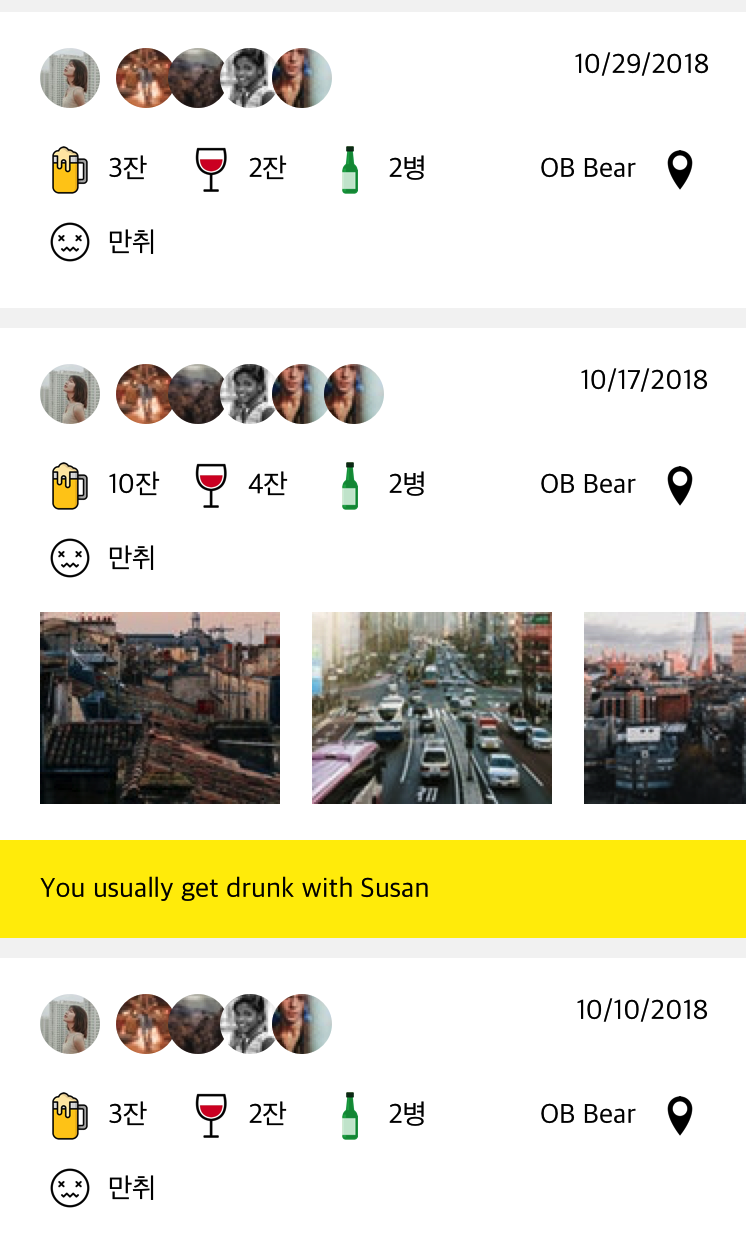
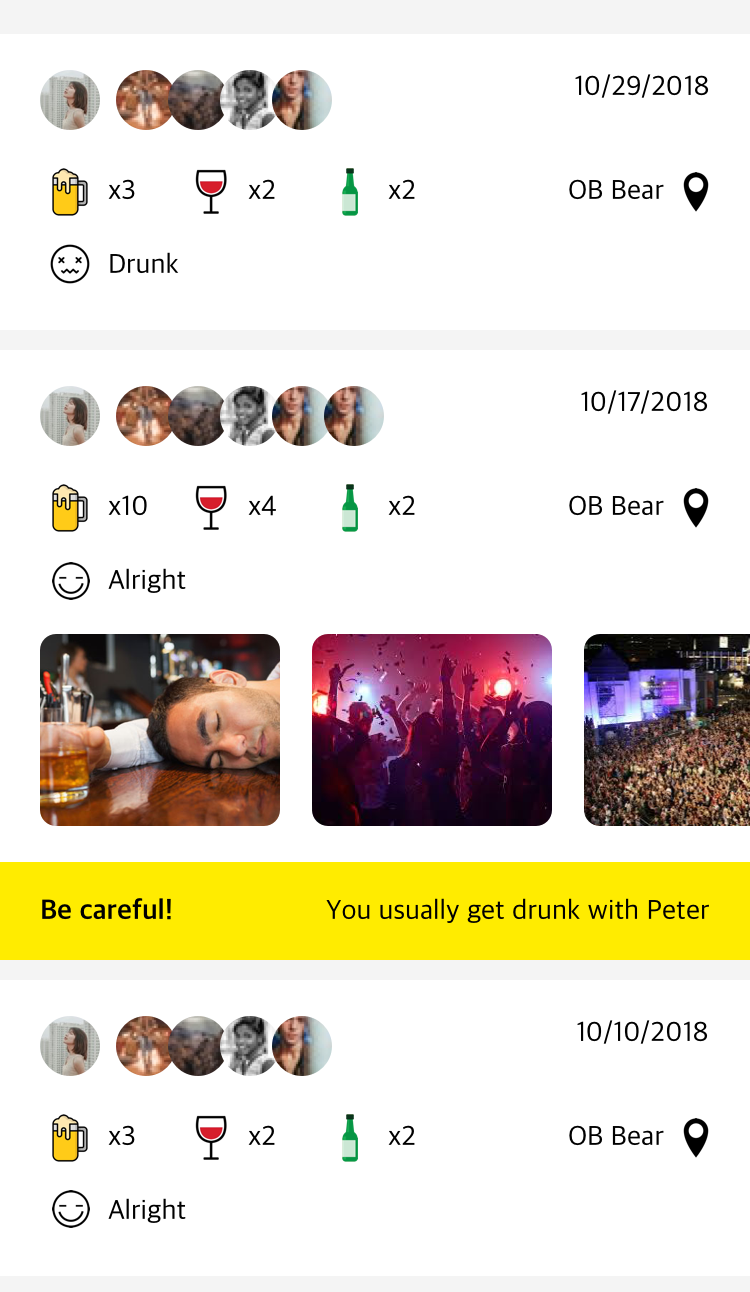
pop up calendar

diff --git a/public/index.html b/public/index.html
@@ -7,6 +7,7 @@
     <link rel="stylesheet" href="./css/main.css">
     <link rel="stylesheet" href="https://stackpath.bootstrapcdn.com/bootstrap/4.1.3/css/bootstrap.min.css" 
     integrity="sha384-MCw98/SFnGE8fJT3GXwEOngsV7Zt27NXFoaoApmYm81iuXoPkFOJwJ8ERdknLPMO" crossorigin="anonymous">
+
     <link rel = "stylesheet" href = "https://ajax.googleapis.com/ajax/libs/angular_material/1.0.0/angular-material.min.css">
     <script src="https://ajax.googleapis.com/ajax/libs/angularjs/1.6.9/angular.min.js"></script>
     <script src="https://ajax.googleapis.com/ajax/libs/angularjs/1.6.9/angular-route.min.js"></script>
@@ -23,5 +24,6 @@
     <script src = "https://ajax.googleapis.com/ajax/libs/angular_material/1.1.9/angular-material.min.js"></script>    
     <script src="https://code.jquery.com/jquery-3.3.1.slim.min.js" integrity="sha384-q8i/X+965DzO0rT7abK41JStQIAqVgRVzpbzo5smXKp4YfRvH+8abtTE1Pi6jizo" crossorigin="anonymous"></script>
     <script src="https://stackpath.bootstrapcdn.com/bootstrap/4.1.3/js/bootstrap.min.js" integrity="sha384-ChfqqxuZUCnJSK3+MXmPNIyE6ZbWh2IMqE241rYiqJxyMiZ6OW/JmZQ5stwEULTy" crossorigin="anonymous"></script>
+    <script src="https://ajax.googleapis.com/ajax/libs/jquery/3.2.1/jquery.min.js"></script>
 </body>
 </html>

diff --git a/public/js/component/search.html b/public/js/component/search.html
@@ -170,8 +170,14 @@
             <b>Report</b>
             </div>
             <div class="card-body">
-               <img src="../images/calendar.png" style="width:100%">
-               <img src="../images/gage.png" style="width:100%">               
+            	<div class="cont">
+	                <img class="calendar" src="../images/calendar.png" style="width:100%">
+	           		<div class="popup-calendar hangover" ng-click="popup_description('hangover')"></div>
+	           		<div class="popup-calendar drunk" ng-click="popup_description('drunk')"></div>
+	           		<div class="popup-calendar getting-there" ng-click="popup_description('getting-there')"></div>
+	           		<div class="popup" style="display:none"><div class="popup-result" ng-click="close_popup()"></div></div>
+           		</div>
+                <img src="../images/gage.png" style="width:100%">               
             </div>
             <div class="row fixed-bottom card-footer text-muted mx-0 my-0 px-0 py-0">
                 <div class="col-4 pt-3 bg-white" ng-click="openDrinkPanel()" >

diff --git a/public/js/controller.js b/public/js/controller.js
@@ -55,5 +55,20 @@ drinkControllers.controller('drinkController',
         $scope.memoriesPanel = false;
         $scope.reportPanel = true; 
     };    
+    $scope.popup_description = function(state) {
+    	$('.popup-result').html('');
+    	if (state == 'hangover') {
+    		$('.popup-result').prepend('<img style="border-radius: 25px; display: block; width: 100%; height: 100%;" src="../images/drunk.png" />');
+    	}else if (state == 'drunk') {
+    		$('.popup-result').prepend('<img style="border-radius: 25px; display: block; width: 100%; height: 100%;" src="../images/drunk.png" />');
+    	}else {
+    		$('.popup-result').prepend('<img style="border-radius: 25px; display: block; width: 100%; height: 100%;" src="../images/alright.png" />');
+    	}
+        $('.popup').fadeIn();
+    }
+    $scope.close_popup = function() {
+        $('.popup').fadeOut();
+
+    }
 });
                             

diff --git a/public/css/main.css b/public/css/main.css
@@ -21,3 +21,39 @@
   box-shadow: 0 2px 4px 0 rgba(0, 0, 0, 0.2);
   background-color: #ffffff;
 }
+
+.cont {
+	position: relative;
+    text-align: center;
+}
+
+.popup-calendar {
+	position: absolute;
+	width: 10%;
+	height: 10%;
+}
+
+.hangover {
+	top: 66%;
+	left: 19%;
+}
+
+.drunk {
+	top: 34%;
+	left: 59%;
+}
+.getting-there {
+	top: 82%;
+	left: 32%;
+}
+
+.popup-result {
+	position: absolute;
+    border-radius: 25px;
+    background: #686868;
+    padding: 20px; 
+    top: 18%;
+    left: 18%;
+    width: 70%;
+    height: 70%; 
+}
